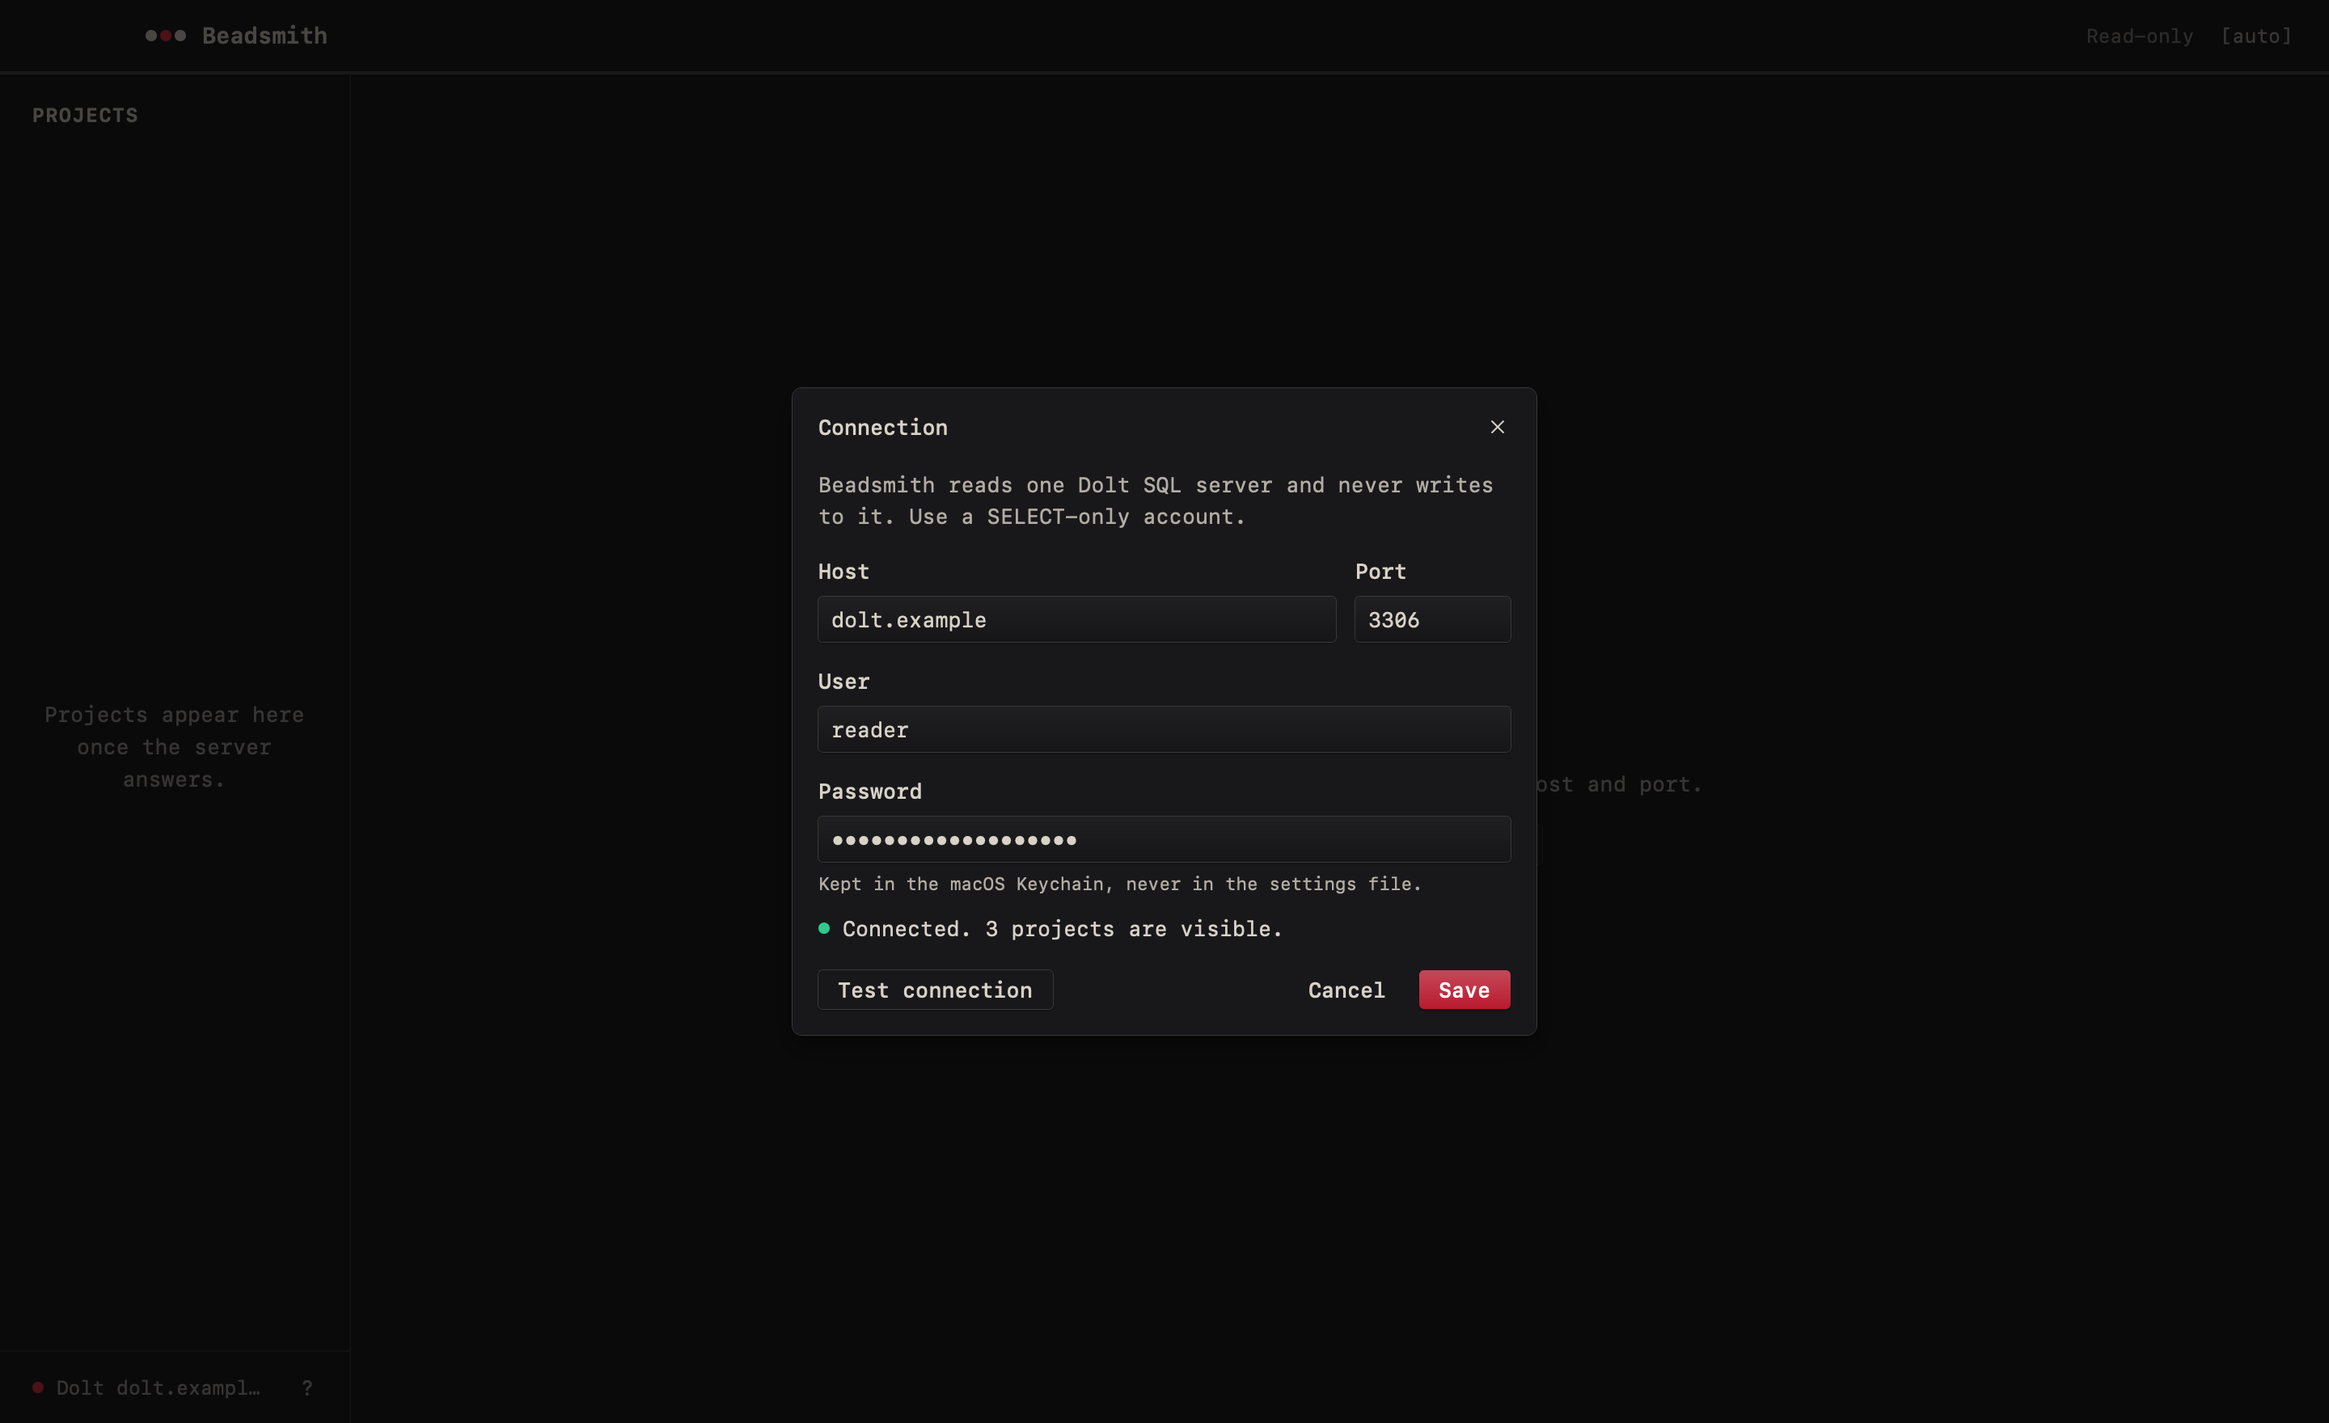
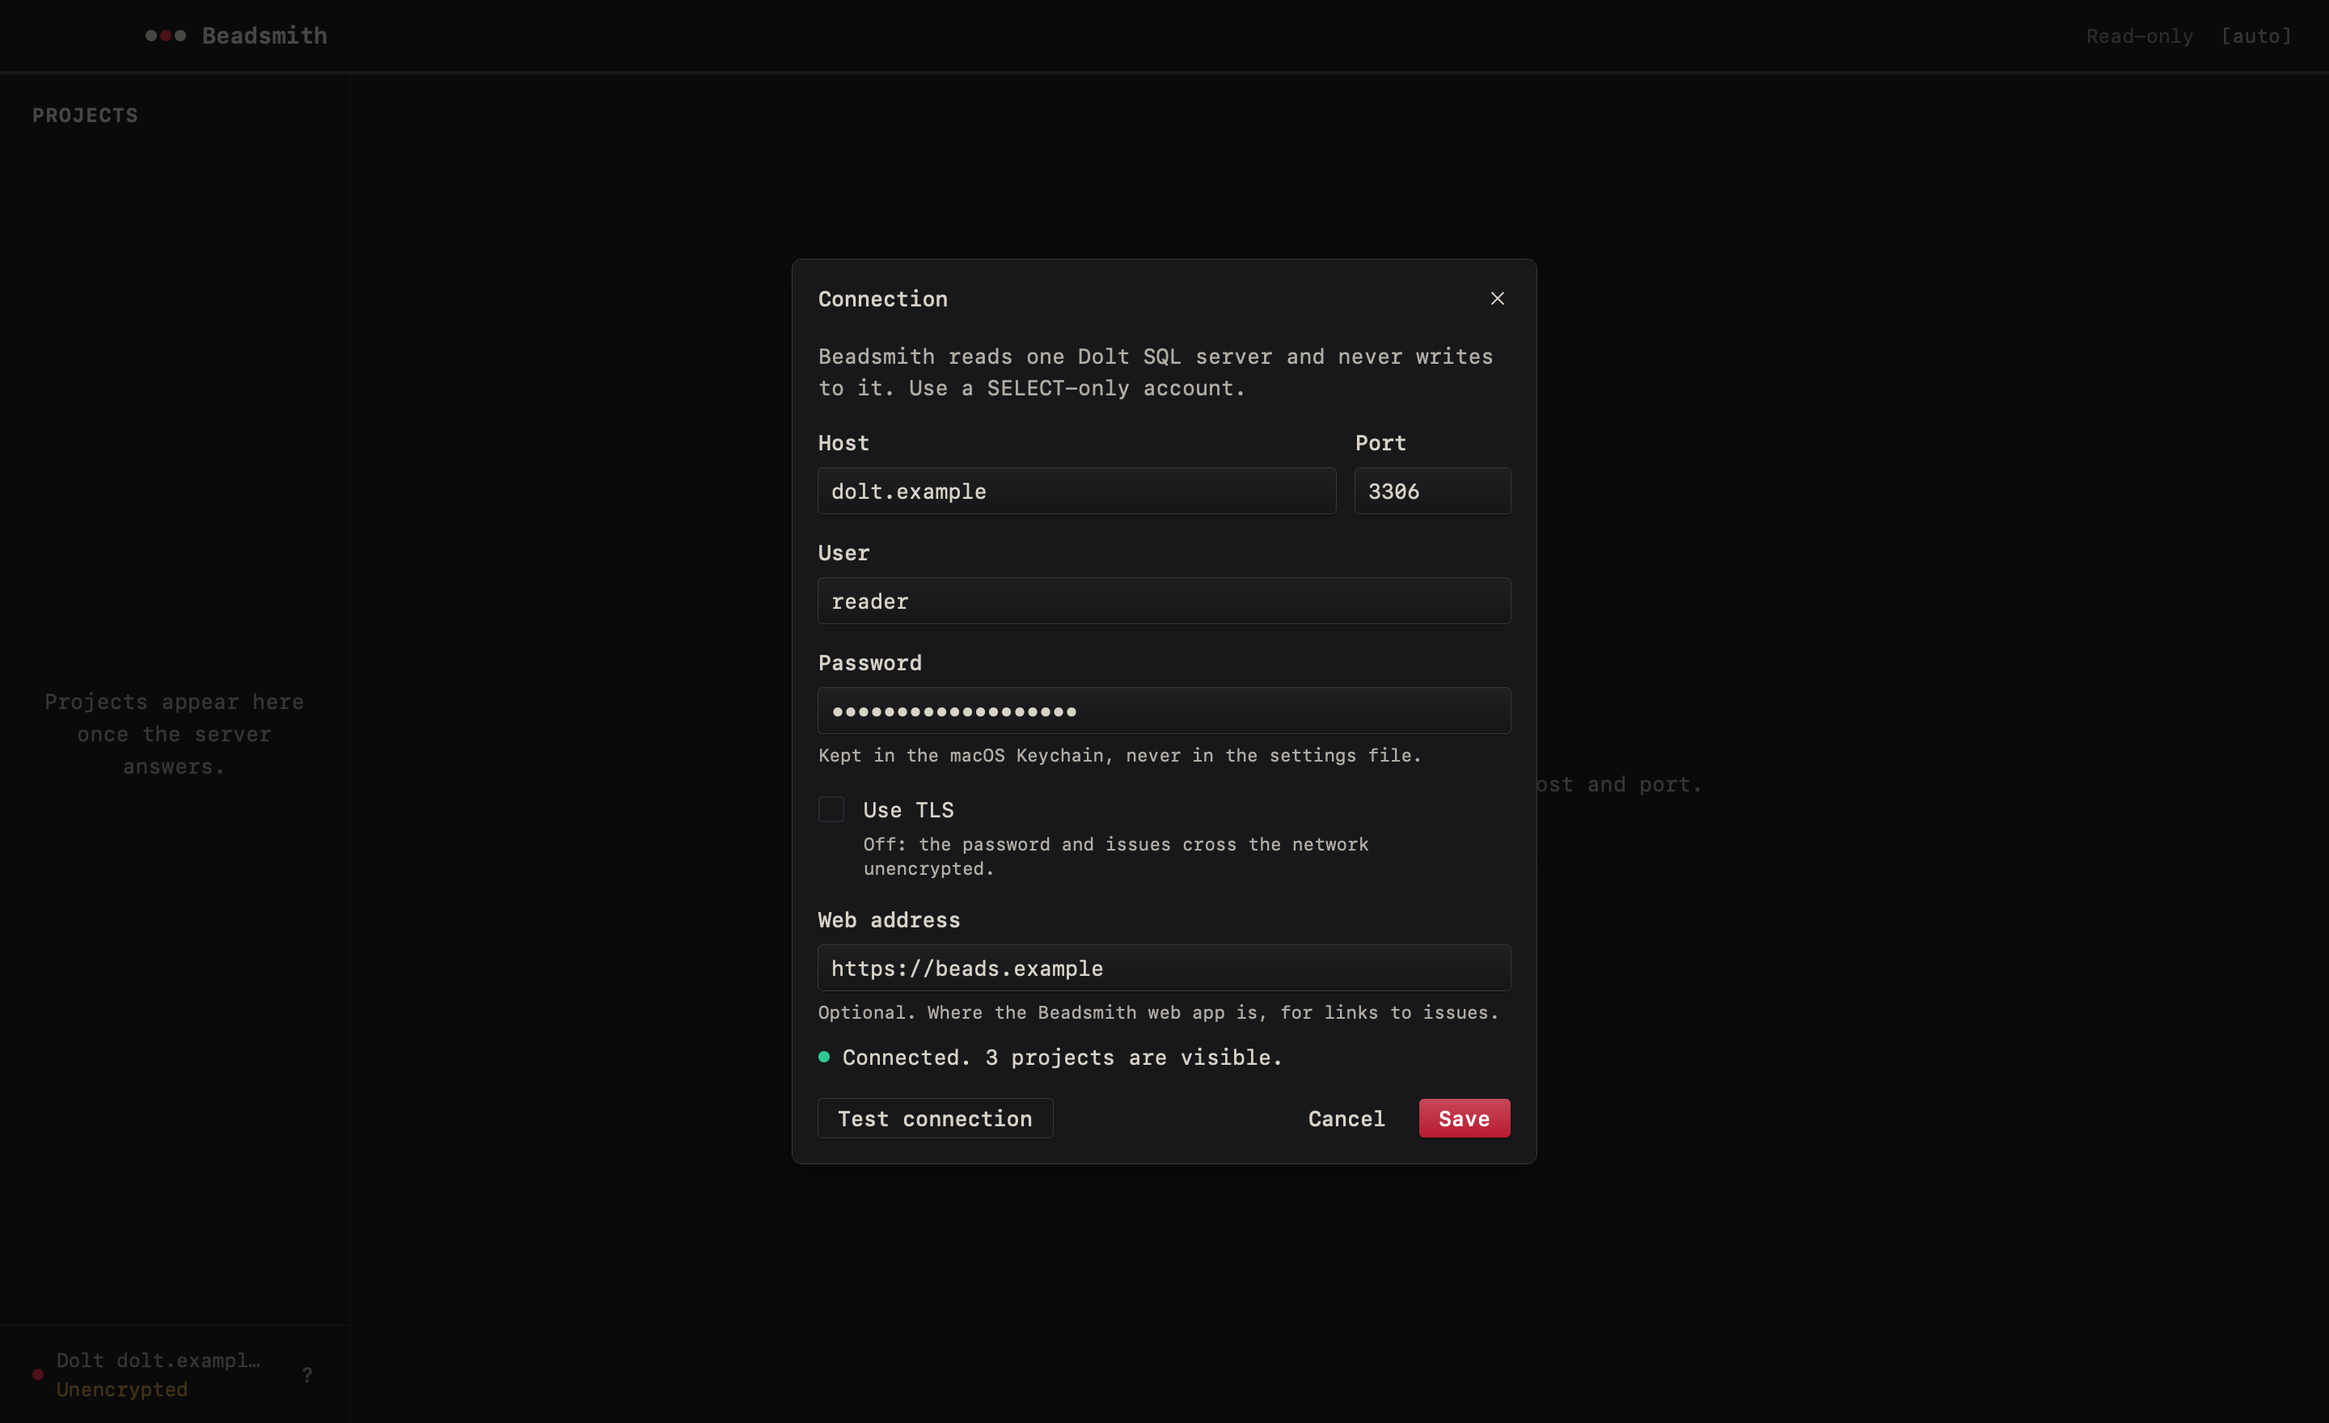
Release the desktop app as 0.1.0 and fix the TLS note overlap
Finish pass on the native client: drop the prototype wording, bump the
crate to 0.1.0, accept ADR-0017 (renamed to 0017-native-desktop-client.md
with a status note; no boundary changed), refresh the README, specs index
and screenshots, and name the Issue menu among the macOS menus.

The acceptance pass found the connection screen's "TLS off" note drawing
its second line over the Web address label: the indent was padding on the
wrapped text, which is measured at its box's full width, so a note that
fits in 428pt but not 400pt got one line's height. The indent is now a
wrapper's.

diff --git a/desktop/src/view.rs b/desktop/src/view.rs
@@ -846,16 +846,21 @@ fn tls_checkbox(s: &State, form: &Connection, k: &Kit) -> El {
                 .key("tls")
                 .description(note),
         )
+        // The indent is a wrapper's, not the text's own padding: wrapped text
+        // is measured at its box's full width, so padding on the text let a
+        // note that fits in 428pt but not in 400pt get one line's height and
+        // draw its second line over the field below.
         .child(
-            text(note)
-                .key("tls-note")
-                // The field hints' face, with room for a second line.
-                .font(k.ty.small.lh(15.0))
-                .color(k.c.text_muted)
-                .wrap()
-                .w_full()
-                .pl(28.0)
-                .a11y_hidden(),
+            col().w_full().pl(28.0).child(
+                text(note)
+                    .key("tls-note")
+                    // The field hints' face, with room for a second line.
+                    .font(k.ty.small.lh(15.0))
+                    .color(k.c.text_muted)
+                    .wrap()
+                    .w_full()
+                    .a11y_hidden(),
+            ),
         )
 }
 

diff --git a/desktop/src/main.rs b/desktop/src/main.rs
@@ -1,7 +1,7 @@
-//! Beadsmith desktop: a prototype native client on Rune
+//! Beadsmith desktop: a native client on Rune
 //! (<https://github.com/anomalyco/rune>). It reads Beads projects straight
 //! from the Dolt server, with the web app's read-only contract. See
-//! `desktop/README.md` and `specs/decisions/0017-native-desktop-prototype.md`.
+//! `desktop/README.md` and `specs/decisions/0017-native-desktop-client.md`.
 //!
 //! `cargo run` opens the window. `cargo run -- --sample` uses built-in data.
 //! Headless: `cargo run -- --snap out.png --scene sample`.

diff --git a/desktop/src/model.rs b/desktop/src/model.rs
@@ -1,5 +1,5 @@
 //! Read-model types the desktop client shows. They mirror the web app's wire
-//! types in `src/lib/types.ts`, trimmed to what the prototype draws.
+//! types in `src/lib/types.ts`, trimmed to what the desktop app draws.
 
 /// Issue counts by lifecycle status, as `issueCounts` in
 /// `src/lib/server/dolt/client.ts` computes them.

diff --git a/desktop/README.md b/desktop/README.md
@@ -1,11 +1,14 @@
-# Beadsmith desktop (prototype)
+# Beadsmith desktop
 
 A native desktop client for Beadsmith, built on
 [Rune](https://github.com/anomalyco/rune), a GPU-rendered Rust UI framework.
-It is a prototype for deciding whether a native port is worth carrying: it
-covers the web app's read path for one project at a time, and nothing else.
-The decision record is
-[ADR-0017](../specs/decisions/0017-native-desktop-prototype.md).
+It reads the same Dolt server as the web app, needs no deployed Beadsmith,
+and covers the web app's read path for one project at a time: it never
+writes. It is for the server's owner, since whoever holds the Dolt
+credential sees every project on the server. Version 0.1.0 is the first
+release; macOS is the supported platform, and Linux builds and runs from
+source. The decision record is
+[ADR-0017](../specs/decisions/0017-native-desktop-client.md).
 
 ![Beadsmith desktop, dark](docs/sample-dark.png)
 
@@ -54,7 +57,8 @@ The decision record is
   board, theme choice, window size and, on macOS, window position. See [What a relaunch remembers](#what-a-relaunch-remembers).
 - Keeps its connection: host, port and user in a settings file, the password
   in the macOS Keychain, set from a connection screen that can test them
-  first.
+  first, with optional TLS checked against the system's trusted roots. See
+  [TLS](#tls).
 
 It reads only. Dispatch (the web board's drag to an agent included),
 accounts, the console, backups, the Ready deck across projects, todos and
@@ -229,8 +233,8 @@ The list is `SHORTCUTS` in [`src/keys.rs`](src/keys.rs), where one function
 maps keys to commands and another runs them; a unit test fails if this table
 and that list disagree.
 
-On macOS the same commands are in the menu bar (the application menu, View,
-Go and Help), and Edit and Window are the system's standard ones, so `⌘W`,
+On macOS the same commands are in the menu bar (the application menu, View, Go,
+Issue and Help), and Edit and Window are the system's standard ones, so `⌘W`,
 `⌘M` and `⌘Q` behave as in any Mac app. Rune has no native menus on Linux or
 Windows; there `Ctrl+W` and `Ctrl+Q` are bound by the app itself.
 
@@ -503,22 +507,23 @@ cargo run -- --tree tree.json --scene filtered     # the element tree as JSON
 ```
 
 Scenes fill state directly, so they need no server. `--list-scenes` names
-them all: the data (`sample`, `filtered`, `ready`, and `sorted` for the widest
-sorted heading), the board (`board`,
-`board-ready` under a status tab and a sort, `board-filtered`,
-`board-loading`), every pane while it loads
+them all: the data (`sample`, `filtered`, `ready`, and `sorted` for the
+widest sorted heading), the board (`board`, `board-ready` under a status tab
+and a sort, `board-filtered`, `board-loading`), every pane while it loads
 (`loading`, `loading-issues`, `loading-issue`), the empty and failed states
 (`no-projects`, `empty-project`, `no-matches`, `issue-gone`, `unconfigured`,
 `unreachable`, `auth-rejected`, `credential-unavailable`, `tls-rejected`,
-`issues-failed`, `issue-failed`), a server read without TLS across a
-network (`unencrypted`), a failed refresh over loaded data (`stale`), the window
+`issues-failed`, `issue-failed`), a server read without TLS across a network
+(`unencrypted`), a failed refresh over loaded data (`stale`), the window
 re-reading by itself (`refreshing`) and its interval being chosen
-(`auto-refresh`), the
-connection screen (`connection` for a first launch, then `connection-*`),
-an issue being read from the keyboard (`reading`), one reached by
-following dependency links (`trail`, and `trail-gone` for a link to an issue
-that is not there), a theme chosen against the system's (`theme-light`,
-`theme-dark`) and the shortcuts list (`shortcuts`).
+(`auto-refresh`), the connection screen (`connection` for a first launch,
+then `connection-*`), an issue being read from the keyboard (`reading`), its
+dependencies grouped by type (`dependencies`), one reached by following
+dependency links (`trail`, and `trail-gone` for a link to an issue that is
+not there), the issue actions with and without a web address (`issue-link`,
+`issue-no-link`), a theme chosen against the system's (`theme-light`,
+`theme-dark`), the shortcuts list (`shortcuts`) and quick open (`quick-open`
+empty, then `quick-open-*` for an id, results, no match and a failed read).
 A headless run reads no environment, settings file
 or keychain, so an image depends on its scene alone. The screenshots above
 are `--snap docs/sample-dark.png --scene sample`, the same with

diff --git a/specs/README.md b/specs/README.md
@@ -86,7 +86,7 @@ reality**. Search `src/` before treating a spec as implemented.
   checks, a NixOS VM test and the published GHCR image; the maintainer's host
   (`fleet/`) and its sops secrets live in this public repo
   ([ADR-0014](decisions/0014-public-repo-nix-and-fleet.md)).
-- Proposed, prototype only: a **native desktop client** on Rune in
+- A **native desktop client** on Rune in
   `desktop/` reads the same Dolt server directly with the web app's read
   contract and a SELECT-only account. It bypasses accounts and the project
   gate, so it is for the server's owner; it never scans workspaces or runs
@@ -95,7 +95,7 @@ reality**. Search `src/` before treating a spec as implemented.
   system's trusted roots. A script bundles it as an ad-hoc
   signed `Beadsmith.app`, locally or in a release workflow that attaches an
   unnotarized macOS zip to a GitHub Release on `desktop-v*` tags
-  ([ADR-0017](decisions/0017-native-desktop-prototype.md)).
+  ([ADR-0017](decisions/0017-native-desktop-client.md)).
 - **One Google IdP** when Cloudflare Access is used. Per-project
   catalog/membership is still the gate before projects are shared selectively;
   today every account sees every SQL-visible project
@@ -143,7 +143,7 @@ Follow the `architecture` skill at
 | [0013-owner-account-and-global-readers.md](decisions/0013-owner-account-and-global-readers.md) | [`scripts/ci/dolt-grants-smoke.sh`](../scripts/ci/dolt-grants-smoke.sh), [`docs/new-project.md`](../docs/new-project.md), [`fleet/hosts/beads/dolt.nix`](../fleet/hosts/beads/dolt.nix) (`beads-dolt-grants`) | Plain `bd init` creates projects; global readers; accounts scoped to projects for other agents |
 | [0015-scoped-agent-sandboxes.md](decisions/0015-scoped-agent-sandboxes.md) | [`fleet/hosts/forge/`](../fleet/hosts/forge/) (initial guest only) | Beads and repo sandboxes; admin terminal relay to sandboxes only; personal devices reach in through MCP |
 | [0016-first-mate-worker-runtime.md](decisions/0016-first-mate-worker-runtime.md) | [`fleet/hosts/forge/runtime.nix`](../fleet/hosts/forge/runtime.nix) | Persistent guest Claude Code, host model proxy and signed runner |
-| [0017-native-desktop-prototype.md](decisions/0017-native-desktop-prototype.md) | [`desktop/`](../desktop/README.md) | Proposed: native Rune client reading Dolt directly (prototype) |
+| [0017-native-desktop-client.md](decisions/0017-native-desktop-client.md) | [`desktop/`](../desktop/README.md) | Native Rune client reading Dolt directly with the web app's read contract; macOS bundle and release workflow |
 | [0018-sand-e2b-sandboxes.md](decisions/0018-sand-e2b-sandboxes.md) | [`src/lib/server/e2b/`](../src/lib/server/e2b/), [`src/lib/server/dispatch/e2b-provider.ts`](../src/lib/server/dispatch/e2b-provider.ts), [`src/lib/server/mate/e2b-runner.ts`](../src/lib/server/mate/e2b-runner.ts), [`sandbox/e2b/`](../sandbox/e2b/) | Sand: E2B sandboxes for missions and chats; several runners, picked in First Mate |
 | [0020-first-mate-crew-tools.md](decisions/0020-first-mate-crew-tools.md) | [`src/lib/server/crew/`](../src/lib/server/crew/) | Crew tools: one transport-free MCP tool module for First Mate chats (read tools, todo writes and mission launches as the chat's owner), relayed into Sand chats by [`src/lib/server/mate/crew-bridge.ts`](../src/lib/server/mate/crew-bridge.ts) |
 

diff --git a/specs/decisions/0017-native-desktop-client.md b/specs/decisions/0017-native-desktop-client.md
@@ -1,10 +1,10 @@
-# 0017. Native desktop prototype on Rune
+# 0017. Native desktop client on Rune
 
 Date: 2026-11-06
 
 ## Status
 
-proposed
+accepted (2026-11-11; proposed 2026-11-06 as a prototype)
 
 ## Context
 
@@ -30,7 +30,7 @@ the web app.
 
 ## Decision
 
-We will build a prototype native client in `desktop/`, a standalone Rust
+We will build a native client in `desktop/`, a standalone Rust
 crate on a pinned Rune revision, that reads Beads projects directly from one
 configured Dolt server with the web app's read contract
 ([0003](./0003-dolt-read-plane.md)): single parameterized `SELECT`/`SHOW`
@@ -45,8 +45,11 @@ override the file field by field, with the password file preferred over the
 raw value and the Keychain last. The password is held only in the Keychain
 and the driver's options.
 
-The prototype covers the project list, one project's issue table with
-status and text filters, and the issue detail.
+It covers the web app's read path, one project at a time: the project list,
+a project's issues as a table or a board under status (including Ready) and
+text filters, the issue detail with its dependency links, and quick open
+across projects. Each later addition is listed under Implementation notes
+with the read, if any, it adds.
 
 ## Consequences
 
@@ -120,6 +123,16 @@ window: it still needs a running server and gains nothing native.
 
 ## Implementation notes
 
+- Status: proposed as a prototype on 2026-11-06 to find out whether a
+  native port is worth carrying; accepted on 2026-11-11 with version 0.1.0,
+  once it covered the read path above, was bundled and released by its own
+  workflows, and the read contract and credential handling had held up
+  through those additions. Accepting it changed no boundary: the client
+  still reads only, through the statements listed here. The file was
+  renamed from `0017-native-desktop-prototype.md` at the same time. The
+  alternative above still says "more than a prototype should build": that
+  was the reasoning when the direct reader was chosen, and the trigger it
+  names (opening the client to anyone but the server's owner) still stands.
 - Code: [`desktop/`](../../desktop/README.md); the read plane is
   [`desktop/src/dolt.rs`](../../desktop/src/dolt.rs), ported from
   [`src/lib/server/dolt/client.ts`](../../src/lib/server/dolt/client.ts).

diff --git a/specs/decisions/README.md b/specs/decisions/README.md
@@ -24,5 +24,5 @@ edit an ADR on every conversation — see `.agents/skills/architecture/SKILL.md`
 | [0014](./0014-public-repo-nix-and-fleet.md) | Public repo with its host and sops secrets; one Nix overlay feeds devenv, checks, VM test and the published image |
 | [0015](./0015-scoped-agent-sandboxes.md) | Agents run in beads or repo sandboxes; Beadsmith relays their terminals to admins and never connects into personal devices |
 | [0016](./0016-first-mate-worker-runtime.md) | First Mate worker runtime |
-| [0017](./0017-native-desktop-prototype.md) | **Proposed.** A prototype native desktop client on Rune reads Dolt directly with the web app's read contract |
+| [0017](./0017-native-desktop-client.md) | A native desktop client on Rune reads Dolt directly with the web app's read contract, for the server's owner |
 | [0018](./0018-sand-e2b-sandboxes.md) | Sand: E2B sandboxes beside self-hosted runners, picked per chat and mission in First Mate |
